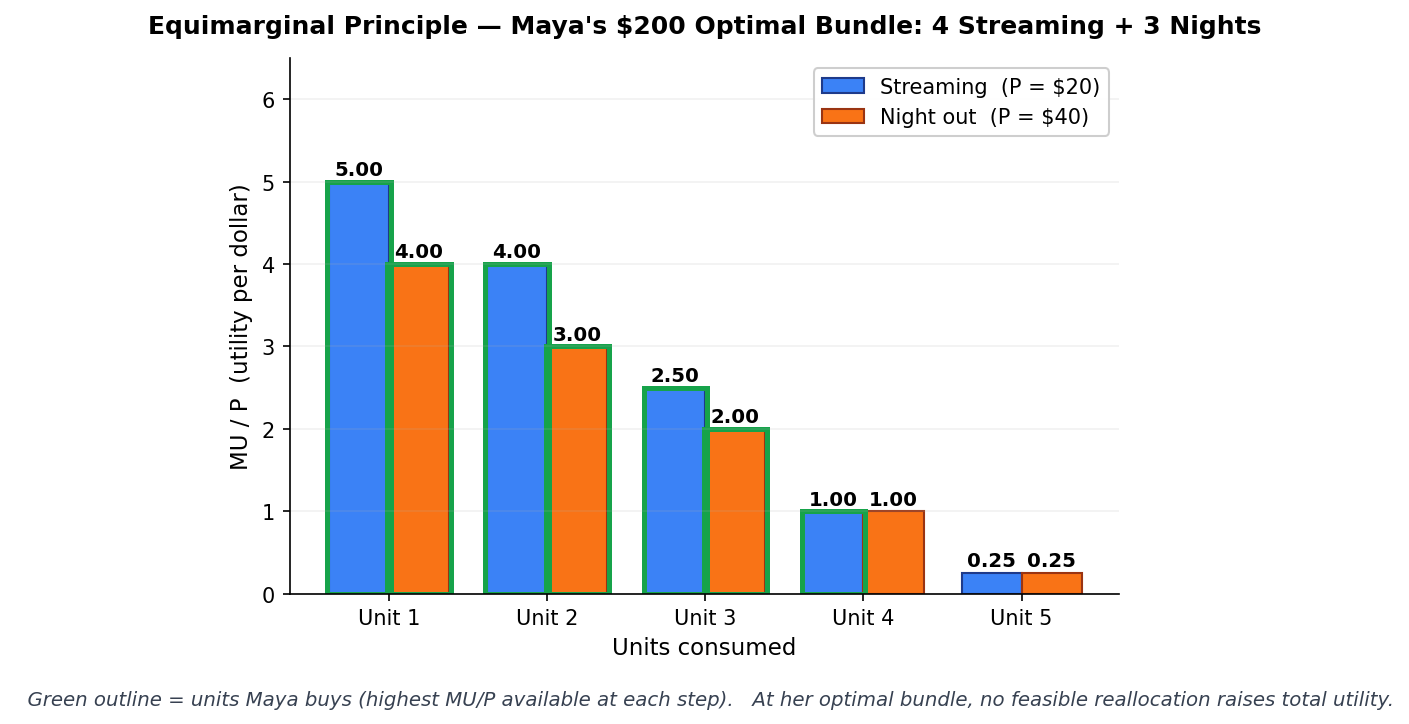
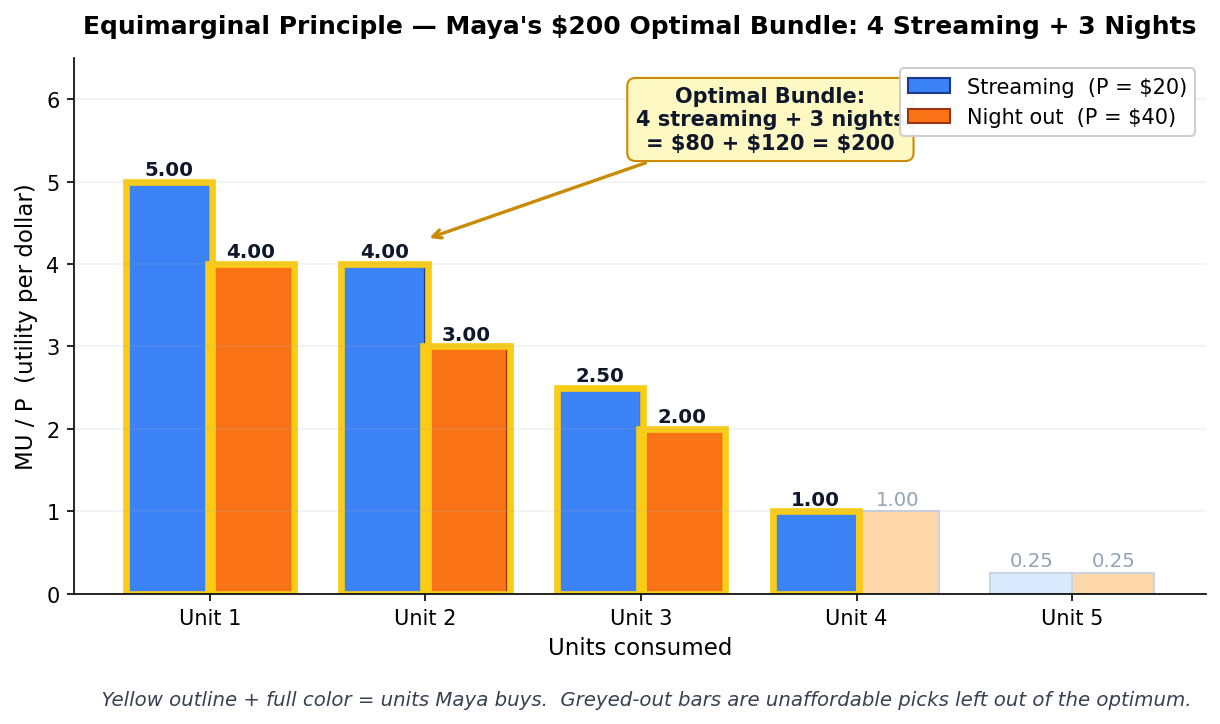
ch08: BNPL big figure + slide-59 fragments + Maya-pic only optimum
Three fixes:

1. Slide 53 (BNPL) — restructure to stack figure on top (full-width,
   max-width 1120px) with the 3 stat cards in a row below. The 3-panel
   chart was previously cramped into a 1.55fr column and rendered too
   small to read.

2. Slide 59 (buying-decision-rounds) — round-by-round reveal: each of
   the 7 data rows is a fragment (indices 1-7), plus the RESULT
   callout (index 8). Header row stays static.

3. Slide 65 (maya-equimarginal-picture) — only highlight the optimal
   bundle. Picked bars now full color + yellow outline; non-picked
   bars (4th & 5th night, 5th streaming) greyed out with lighter
   fill and faded labels. One callout points at the bundle as a
   whole instead of 7 individual green outlines on bars + 3 on the
   wrong-direction nights side.

diff --git a/econ1116/ch08-consumer-choice/index.html b/econ1116/ch08-consumer-choice/index.html
@@ -1973,33 +1973,26 @@ The punchline — "variety in the middle" — previews two later concepts: (a) c
 <!-- ============ BNPL — moved here from before time-price, now after poll-1 vertical stack ============ -->
 <section id="bnpl">
  <h2><i class="fa-solid fa-credit-card" style="color: var(--secondary-color);"></i> BNPL &mdash; Borrowing from Tomorrow&rsquo;s Budget</h2>
- <div style="display: grid; grid-template-columns: 1.55fr 1fr; gap: 18px; align-items: center; margin-top: 6px;">
-  <!-- LEFT: 3-panel figure -->
-  <div style="text-align: center;">
-   <img src="figures/figure_bnpl_budget.png" alt="Three-panel budget line — today shifts outward when borrowing, tomorrow shifts inward when repaying, and on average the budget is smaller because of the 39–51 percent Gen Z late-payment rate" style="width: 100%; max-width: 760px; height: auto;">
-  </div>
-  <!-- RIGHT: stat cards -->
-  <div style="display: flex; flex-direction: column; gap: 10px;">
-   <div style="background: #f8f6f3; border-radius: 8px; padding: 10px 14px; border-left: 4px solid var(--secondary-color);">
-    <p style="font-size: 11pt; font-weight: 700; color: var(--secondary-color); text-transform: uppercase; letter-spacing: 0.05em; margin: 0 0 3px;">Klarna / Affirm / Afterpay</p>
-    <p style="font-size: 12.5pt; line-height: 1.55; margin: 0;">Split into <strong>4 interest-free installments</strong>. 2025 U.S. volume <strong>~$70B</strong>; <strong>91.5M</strong> users.</p>
-   </div>
-   <div style="background: #ecfdf5; border-radius: 8px; padding: 10px 14px; border-left: 4px solid var(--success-color);">
-    <p style="font-size: 11pt; font-weight: 700; color: var(--success-color); text-transform: uppercase; letter-spacing: 0.05em; margin: 0 0 3px;">Today</p>
-    <p style="font-size: 12.5pt; line-height: 1.55; margin: 0;">Budget line <strong>shifts OUT</strong> &mdash; consume now, pay later.</p>
-   </div>
-   <div style="background: #fef2f2; border-radius: 8px; padding: 10px 14px; border-left: 4px solid var(--danger-color);">
-    <p style="font-size: 11pt; font-weight: 700; color: var(--danger-color); text-transform: uppercase; letter-spacing: 0.05em; margin: 0 0 3px;">Tomorrow</p>
-    <p style="font-size: 12.5pt; line-height: 1.55; margin: 0;">Budget line <strong>shifts IN</strong> &mdash; the installment comes due.</p>
-   </div>
-   <div style="background: #f5e9f7; border-radius: 8px; padding: 10px 14px; border-left: 4px solid #7c3aed;">
-    <p style="font-size: 11pt; font-weight: 700; color: #7c3aed; text-transform: uppercase; letter-spacing: 0.05em; margin: 0 0 3px;">Average &mdash; what the late fees do</p>
-    <p style="font-size: 12.5pt; line-height: 1.55; margin: 0;">Gen Z late-payment rate <strong>39&ndash;51%</strong>. Avg BNPL spend <strong>$244/mo</strong> (+21% YoY). Total budget ends up <strong>smaller</strong> than baseline.</p>
-   </div>
-  </div>
+
+ <!-- TOP: 3-panel figure (full width, big so it&rsquo;s legible) -->
+ <div style="text-align: center; margin-top: 4px;">
+  <img src="figures/figure_bnpl_budget.png" alt="Three-panel budget line — today shifts outward when borrowing, tomorrow shifts inward when repaying, and on average the budget is smaller because of the 39–51 percent Gen Z late-payment rate" style="width: 100%; max-width: 1120px; height: auto;">
  </div>
- <div style="background: #fff3e0; border-radius: 8px; padding: 10px 22px; margin-top: 10px; border-left: 4px solid var(--accent-color);">
-  <p style="font-size: 13pt; margin: 0;"><strong>The rational planner vs. impulsive doer.</strong> BNPL is engineered for the doer. We return to this conflict in &sect;5 (behavioral) and Ch 18.</p>
+
+ <!-- BOTTOM: 3 stat cards in a row, mirroring the 3 panels -->
+ <div style="display: grid; grid-template-columns: 1fr 1fr 1fr; gap: 10px; margin-top: 8px;">
+  <div style="background: #ecfdf5; border-radius: 8px; padding: 8px 12px; border-left: 4px solid var(--success-color);">
+   <p style="font-size: 10.5pt; font-weight: 700; color: var(--success-color); text-transform: uppercase; letter-spacing: 0.05em; margin: 0 0 2px;">Today</p>
+   <p style="font-size: 12pt; line-height: 1.4; margin: 0;">Budget line <strong>shifts OUT</strong> &mdash; consume now, pay later.</p>
+  </div>
+  <div style="background: #fef2f2; border-radius: 8px; padding: 8px 12px; border-left: 4px solid var(--danger-color);">
+   <p style="font-size: 10.5pt; font-weight: 700; color: var(--danger-color); text-transform: uppercase; letter-spacing: 0.05em; margin: 0 0 2px;">Tomorrow</p>
+   <p style="font-size: 12pt; line-height: 1.4; margin: 0;">Budget line <strong>shifts IN</strong> &mdash; the installment comes due.</p>
+  </div>
+  <div style="background: #f5e9f7; border-radius: 8px; padding: 8px 12px; border-left: 4px solid #7c3aed;">
+   <p style="font-size: 10.5pt; font-weight: 700; color: #7c3aed; text-transform: uppercase; letter-spacing: 0.05em; margin: 0 0 2px;">Average + late fees</p>
+   <p style="font-size: 12pt; line-height: 1.4; margin: 0;">Gen Z late-payment rate <strong>39&ndash;51%</strong> &rArr; total budget <strong>smaller</strong> than baseline.</p>
+  </div>
  </div>
  <aside class="notes">
   3-panel visual:
@@ -2169,17 +2162,17 @@ The punchline — "variety in the middle" — previews two later concepts: (a) c
         </tr>
       </thead>
       <tbody>
-        <tr style="border-bottom: 1px solid var(--line-color);"><td style="text-align: center; padding: 7px;">1</td><td style="text-align: center; padding: 7px;">$16</td><td style="text-align: center; padding: 7px;">80/4 = 20</td><td style="text-align: center; padding: 7px; font-weight: 700; color: #15803d;">21/1 = 21</td><td style="text-align: center; padding: 7px; font-weight: 700;">Avo <i class="fa-solid fa-leaf" style="color:#15803d;"></i></td><td style="text-align: center; padding: 7px;">$1</td><td style="text-align: center; padding: 7px;">(0, 1)</td></tr>
-        <tr style="background: #fafafa; border-bottom: 1px solid var(--line-color);"><td style="text-align: center; padding: 7px;">2</td><td style="text-align: center; padding: 7px;">$15</td><td style="text-align: center; padding: 7px; font-weight: 700; color: #b91c1c;">80/4 = 20</td><td style="text-align: center; padding: 7px; font-weight: 700; color: #b91c1c;">20/1 = 20</td><td style="text-align: center; padding: 7px; font-weight: 700;">Beef <i class="fa-solid fa-drumstick-bite" style="color:#b91c1c;"></i> (tie)</td><td style="text-align: center; padding: 7px;">$4</td><td style="text-align: center; padding: 7px;">(1, 1)</td></tr>
-        <tr style="border-bottom: 1px solid var(--line-color);"><td style="text-align: center; padding: 7px;">3</td><td style="text-align: center; padding: 7px;">$11</td><td style="text-align: center; padding: 7px;">76/4 = 19</td><td style="text-align: center; padding: 7px; font-weight: 700; color: #15803d;">20/1 = 20</td><td style="text-align: center; padding: 7px; font-weight: 700;">Avo <i class="fa-solid fa-leaf" style="color:#15803d;"></i></td><td style="text-align: center; padding: 7px;">$1</td><td style="text-align: center; padding: 7px;">(1, 2)</td></tr>
-        <tr style="background: #fafafa; border-bottom: 1px solid var(--line-color);"><td style="text-align: center; padding: 7px;">4</td><td style="text-align: center; padding: 7px;">$10</td><td style="text-align: center; padding: 7px; font-weight: 700; color: #b91c1c;">76/4 = 19</td><td style="text-align: center; padding: 7px; font-weight: 700; color: #b91c1c;">19/1 = 19</td><td style="text-align: center; padding: 7px; font-weight: 700;">Beef <i class="fa-solid fa-drumstick-bite" style="color:#b91c1c;"></i> (tie)</td><td style="text-align: center; padding: 7px;">$4</td><td style="text-align: center; padding: 7px;">(2, 2)</td></tr>
-        <tr style="border-bottom: 1px solid var(--line-color);"><td style="text-align: center; padding: 7px;">5</td><td style="text-align: center; padding: 7px;">$6</td><td style="text-align: center; padding: 7px;">72/4 = 18</td><td style="text-align: center; padding: 7px; font-weight: 700; color: #15803d;">19/1 = 19</td><td style="text-align: center; padding: 7px; font-weight: 700;">Avo <i class="fa-solid fa-leaf" style="color:#15803d;"></i></td><td style="text-align: center; padding: 7px;">$1</td><td style="text-align: center; padding: 7px;">(2, 3)</td></tr>
-        <tr style="background: #fafafa; border-bottom: 1px solid var(--line-color);"><td style="text-align: center; padding: 7px;">6</td><td style="text-align: center; padding: 7px;">$5</td><td style="text-align: center; padding: 7px; font-weight: 700; color: #b91c1c;">72/4 = 18</td><td style="text-align: center; padding: 7px; font-weight: 700; color: #b91c1c;">18/1 = 18</td><td style="text-align: center; padding: 7px; font-weight: 700;">Beef <i class="fa-solid fa-drumstick-bite" style="color:#b91c1c;"></i> (tie)</td><td style="text-align: center; padding: 7px;">$4</td><td style="text-align: center; padding: 7px;">(3, 3)</td></tr>
-        <tr style="background: #fef9c3; border: 2px solid var(--accent-color);"><td style="text-align: center; padding: 9px; font-weight: 700;">7</td><td style="text-align: center; padding: 9px; font-weight: 700;">$1</td><td style="text-align: center; padding: 9px;">68/4 = 17 (can&rsquo;t afford)</td><td style="text-align: center; padding: 9px; font-weight: 700; color: #15803d;">18/1 = 18</td><td style="text-align: center; padding: 9px; font-weight: 700;">Avo <i class="fa-solid fa-leaf" style="color:#15803d;"></i></td><td style="text-align: center; padding: 9px;">$1</td><td style="text-align: center; padding: 9px; font-weight: 700; color: var(--accent-color);">(3, 4) &#10004;</td></tr>
+        <tr class="fragment fade-in" data-fragment-index="1" style="border-bottom: 1px solid var(--line-color);"><td style="text-align: center; padding: 7px;">1</td><td style="text-align: center; padding: 7px;">$16</td><td style="text-align: center; padding: 7px;">80/4 = 20</td><td style="text-align: center; padding: 7px; font-weight: 700; color: #15803d;">21/1 = 21</td><td style="text-align: center; padding: 7px; font-weight: 700;">Avo <i class="fa-solid fa-leaf" style="color:#15803d;"></i></td><td style="text-align: center; padding: 7px;">$1</td><td style="text-align: center; padding: 7px;">(0, 1)</td></tr>
+        <tr class="fragment fade-in" data-fragment-index="2" style="background: #fafafa; border-bottom: 1px solid var(--line-color);"><td style="text-align: center; padding: 7px;">2</td><td style="text-align: center; padding: 7px;">$15</td><td style="text-align: center; padding: 7px; font-weight: 700; color: #b91c1c;">80/4 = 20</td><td style="text-align: center; padding: 7px; font-weight: 700; color: #b91c1c;">20/1 = 20</td><td style="text-align: center; padding: 7px; font-weight: 700;">Beef <i class="fa-solid fa-drumstick-bite" style="color:#b91c1c;"></i> (tie)</td><td style="text-align: center; padding: 7px;">$4</td><td style="text-align: center; padding: 7px;">(1, 1)</td></tr>
+        <tr class="fragment fade-in" data-fragment-index="3" style="border-bottom: 1px solid var(--line-color);"><td style="text-align: center; padding: 7px;">3</td><td style="text-align: center; padding: 7px;">$11</td><td style="text-align: center; padding: 7px;">76/4 = 19</td><td style="text-align: center; padding: 7px; font-weight: 700; color: #15803d;">20/1 = 20</td><td style="text-align: center; padding: 7px; font-weight: 700;">Avo <i class="fa-solid fa-leaf" style="color:#15803d;"></i></td><td style="text-align: center; padding: 7px;">$1</td><td style="text-align: center; padding: 7px;">(1, 2)</td></tr>
+        <tr class="fragment fade-in" data-fragment-index="4" style="background: #fafafa; border-bottom: 1px solid var(--line-color);"><td style="text-align: center; padding: 7px;">4</td><td style="text-align: center; padding: 7px;">$10</td><td style="text-align: center; padding: 7px; font-weight: 700; color: #b91c1c;">76/4 = 19</td><td style="text-align: center; padding: 7px; font-weight: 700; color: #b91c1c;">19/1 = 19</td><td style="text-align: center; padding: 7px; font-weight: 700;">Beef <i class="fa-solid fa-drumstick-bite" style="color:#b91c1c;"></i> (tie)</td><td style="text-align: center; padding: 7px;">$4</td><td style="text-align: center; padding: 7px;">(2, 2)</td></tr>
+        <tr class="fragment fade-in" data-fragment-index="5" style="border-bottom: 1px solid var(--line-color);"><td style="text-align: center; padding: 7px;">5</td><td style="text-align: center; padding: 7px;">$6</td><td style="text-align: center; padding: 7px;">72/4 = 18</td><td style="text-align: center; padding: 7px; font-weight: 700; color: #15803d;">19/1 = 19</td><td style="text-align: center; padding: 7px; font-weight: 700;">Avo <i class="fa-solid fa-leaf" style="color:#15803d;"></i></td><td style="text-align: center; padding: 7px;">$1</td><td style="text-align: center; padding: 7px;">(2, 3)</td></tr>
+        <tr class="fragment fade-in" data-fragment-index="6" style="background: #fafafa; border-bottom: 1px solid var(--line-color);"><td style="text-align: center; padding: 7px;">6</td><td style="text-align: center; padding: 7px;">$5</td><td style="text-align: center; padding: 7px; font-weight: 700; color: #b91c1c;">72/4 = 18</td><td style="text-align: center; padding: 7px; font-weight: 700; color: #b91c1c;">18/1 = 18</td><td style="text-align: center; padding: 7px; font-weight: 700;">Beef <i class="fa-solid fa-drumstick-bite" style="color:#b91c1c;"></i> (tie)</td><td style="text-align: center; padding: 7px;">$4</td><td style="text-align: center; padding: 7px;">(3, 3)</td></tr>
+        <tr class="fragment fade-in" data-fragment-index="7" style="background: #fef9c3; border: 2px solid var(--accent-color);"><td style="text-align: center; padding: 9px; font-weight: 700;">7</td><td style="text-align: center; padding: 9px; font-weight: 700;">$1</td><td style="text-align: center; padding: 9px;">68/4 = 17 (can&rsquo;t afford)</td><td style="text-align: center; padding: 9px; font-weight: 700; color: #15803d;">18/1 = 18</td><td style="text-align: center; padding: 9px; font-weight: 700;">Avo <i class="fa-solid fa-leaf" style="color:#15803d;"></i></td><td style="text-align: center; padding: 9px;">$1</td><td style="text-align: center; padding: 9px; font-weight: 700; color: var(--accent-color);">(3, 4) &#10004;</td></tr>
       </tbody>
     </table>
   </div>
-  <div style="background: #f0fdf4; border-radius: 8px; padding: 10px 22px; border-left: 4px solid var(--success-color); margin-top: 10px;">
+  <div class="fragment fade-up" data-fragment-index="8" style="background: #f0fdf4; border-radius: 8px; padding: 10px 22px; border-left: 4px solid var(--success-color); margin-top: 10px;">
     <p style="font-size: 14pt; margin: 0;"><strong>RESULT:</strong> spent exactly $16 ($4&times;3 + $1&times;4). Optimum = <strong>(3 beef, 4 avocado)</strong> with TU = 228 + 78 = <strong>306</strong>. Last picks of both goods have <strong>MU/$ = 18</strong> &mdash; <em>equimarginal</em>.</p>
   </div>
   <aside class="notes">Walk through 2-3 rounds. Emphasize: at every tie, either choice is fine because their MU/$ ratios are equal. The eventual budget exhaustion lands at the same bundle regardless of which side wins ties. Round 7 is highlighted because at $1 remaining, beef ($4) is unaffordable, so even though MU/$ for the 4th beef (17) is technically lower than the 4th avocado (18), the rule is &ldquo;buy the highest MU/$ you can afford.&rdquo; This is the discrete version of the equimarginal rule.</aside>

diff --git a/econ1116/ch08-consumer-choice/presentation.html b/econ1116/ch08-consumer-choice/presentation.html
@@ -1973,33 +1973,26 @@ The punchline — "variety in the middle" — previews two later concepts: (a) c
 <!-- ============ BNPL — moved here from before time-price, now after poll-1 vertical stack ============ -->
 <section id="bnpl">
  <h2><i class="fa-solid fa-credit-card" style="color: var(--secondary-color);"></i> BNPL &mdash; Borrowing from Tomorrow&rsquo;s Budget</h2>
- <div style="display: grid; grid-template-columns: 1.55fr 1fr; gap: 18px; align-items: center; margin-top: 6px;">
-  <!-- LEFT: 3-panel figure -->
-  <div style="text-align: center;">
-   <img src="figures/figure_bnpl_budget.png" alt="Three-panel budget line — today shifts outward when borrowing, tomorrow shifts inward when repaying, and on average the budget is smaller because of the 39–51 percent Gen Z late-payment rate" style="width: 100%; max-width: 760px; height: auto;">
-  </div>
-  <!-- RIGHT: stat cards -->
-  <div style="display: flex; flex-direction: column; gap: 10px;">
-   <div style="background: #f8f6f3; border-radius: 8px; padding: 10px 14px; border-left: 4px solid var(--secondary-color);">
-    <p style="font-size: 11pt; font-weight: 700; color: var(--secondary-color); text-transform: uppercase; letter-spacing: 0.05em; margin: 0 0 3px;">Klarna / Affirm / Afterpay</p>
-    <p style="font-size: 12.5pt; line-height: 1.55; margin: 0;">Split into <strong>4 interest-free installments</strong>. 2025 U.S. volume <strong>~$70B</strong>; <strong>91.5M</strong> users.</p>
-   </div>
-   <div style="background: #ecfdf5; border-radius: 8px; padding: 10px 14px; border-left: 4px solid var(--success-color);">
-    <p style="font-size: 11pt; font-weight: 700; color: var(--success-color); text-transform: uppercase; letter-spacing: 0.05em; margin: 0 0 3px;">Today</p>
-    <p style="font-size: 12.5pt; line-height: 1.55; margin: 0;">Budget line <strong>shifts OUT</strong> &mdash; consume now, pay later.</p>
-   </div>
-   <div style="background: #fef2f2; border-radius: 8px; padding: 10px 14px; border-left: 4px solid var(--danger-color);">
-    <p style="font-size: 11pt; font-weight: 700; color: var(--danger-color); text-transform: uppercase; letter-spacing: 0.05em; margin: 0 0 3px;">Tomorrow</p>
-    <p style="font-size: 12.5pt; line-height: 1.55; margin: 0;">Budget line <strong>shifts IN</strong> &mdash; the installment comes due.</p>
-   </div>
-   <div style="background: #f5e9f7; border-radius: 8px; padding: 10px 14px; border-left: 4px solid #7c3aed;">
-    <p style="font-size: 11pt; font-weight: 700; color: #7c3aed; text-transform: uppercase; letter-spacing: 0.05em; margin: 0 0 3px;">Average &mdash; what the late fees do</p>
-    <p style="font-size: 12.5pt; line-height: 1.55; margin: 0;">Gen Z late-payment rate <strong>39&ndash;51%</strong>. Avg BNPL spend <strong>$244/mo</strong> (+21% YoY). Total budget ends up <strong>smaller</strong> than baseline.</p>
-   </div>
-  </div>
+
+ <!-- TOP: 3-panel figure (full width, big so it&rsquo;s legible) -->
+ <div style="text-align: center; margin-top: 4px;">
+  <img src="figures/figure_bnpl_budget.png" alt="Three-panel budget line — today shifts outward when borrowing, tomorrow shifts inward when repaying, and on average the budget is smaller because of the 39–51 percent Gen Z late-payment rate" style="width: 100%; max-width: 1120px; height: auto;">
  </div>
- <div style="background: #fff3e0; border-radius: 8px; padding: 10px 22px; margin-top: 10px; border-left: 4px solid var(--accent-color);">
-  <p style="font-size: 13pt; margin: 0;"><strong>The rational planner vs. impulsive doer.</strong> BNPL is engineered for the doer. We return to this conflict in &sect;5 (behavioral) and Ch 18.</p>
+
+ <!-- BOTTOM: 3 stat cards in a row, mirroring the 3 panels -->
+ <div style="display: grid; grid-template-columns: 1fr 1fr 1fr; gap: 10px; margin-top: 8px;">
+  <div style="background: #ecfdf5; border-radius: 8px; padding: 8px 12px; border-left: 4px solid var(--success-color);">
+   <p style="font-size: 10.5pt; font-weight: 700; color: var(--success-color); text-transform: uppercase; letter-spacing: 0.05em; margin: 0 0 2px;">Today</p>
+   <p style="font-size: 12pt; line-height: 1.4; margin: 0;">Budget line <strong>shifts OUT</strong> &mdash; consume now, pay later.</p>
+  </div>
+  <div style="background: #fef2f2; border-radius: 8px; padding: 8px 12px; border-left: 4px solid var(--danger-color);">
+   <p style="font-size: 10.5pt; font-weight: 700; color: var(--danger-color); text-transform: uppercase; letter-spacing: 0.05em; margin: 0 0 2px;">Tomorrow</p>
+   <p style="font-size: 12pt; line-height: 1.4; margin: 0;">Budget line <strong>shifts IN</strong> &mdash; the installment comes due.</p>
+  </div>
+  <div style="background: #f5e9f7; border-radius: 8px; padding: 8px 12px; border-left: 4px solid #7c3aed;">
+   <p style="font-size: 10.5pt; font-weight: 700; color: #7c3aed; text-transform: uppercase; letter-spacing: 0.05em; margin: 0 0 2px;">Average + late fees</p>
+   <p style="font-size: 12pt; line-height: 1.4; margin: 0;">Gen Z late-payment rate <strong>39&ndash;51%</strong> &rArr; total budget <strong>smaller</strong> than baseline.</p>
+  </div>
  </div>
  <aside class="notes">
   3-panel visual:
@@ -2169,17 +2162,17 @@ The punchline — "variety in the middle" — previews two later concepts: (a) c
         </tr>
       </thead>
       <tbody>
-        <tr style="border-bottom: 1px solid var(--line-color);"><td style="text-align: center; padding: 7px;">1</td><td style="text-align: center; padding: 7px;">$16</td><td style="text-align: center; padding: 7px;">80/4 = 20</td><td style="text-align: center; padding: 7px; font-weight: 700; color: #15803d;">21/1 = 21</td><td style="text-align: center; padding: 7px; font-weight: 700;">Avo <i class="fa-solid fa-leaf" style="color:#15803d;"></i></td><td style="text-align: center; padding: 7px;">$1</td><td style="text-align: center; padding: 7px;">(0, 1)</td></tr>
-        <tr style="background: #fafafa; border-bottom: 1px solid var(--line-color);"><td style="text-align: center; padding: 7px;">2</td><td style="text-align: center; padding: 7px;">$15</td><td style="text-align: center; padding: 7px; font-weight: 700; color: #b91c1c;">80/4 = 20</td><td style="text-align: center; padding: 7px; font-weight: 700; color: #b91c1c;">20/1 = 20</td><td style="text-align: center; padding: 7px; font-weight: 700;">Beef <i class="fa-solid fa-drumstick-bite" style="color:#b91c1c;"></i> (tie)</td><td style="text-align: center; padding: 7px;">$4</td><td style="text-align: center; padding: 7px;">(1, 1)</td></tr>
-        <tr style="border-bottom: 1px solid var(--line-color);"><td style="text-align: center; padding: 7px;">3</td><td style="text-align: center; padding: 7px;">$11</td><td style="text-align: center; padding: 7px;">76/4 = 19</td><td style="text-align: center; padding: 7px; font-weight: 700; color: #15803d;">20/1 = 20</td><td style="text-align: center; padding: 7px; font-weight: 700;">Avo <i class="fa-solid fa-leaf" style="color:#15803d;"></i></td><td style="text-align: center; padding: 7px;">$1</td><td style="text-align: center; padding: 7px;">(1, 2)</td></tr>
-        <tr style="background: #fafafa; border-bottom: 1px solid var(--line-color);"><td style="text-align: center; padding: 7px;">4</td><td style="text-align: center; padding: 7px;">$10</td><td style="text-align: center; padding: 7px; font-weight: 700; color: #b91c1c;">76/4 = 19</td><td style="text-align: center; padding: 7px; font-weight: 700; color: #b91c1c;">19/1 = 19</td><td style="text-align: center; padding: 7px; font-weight: 700;">Beef <i class="fa-solid fa-drumstick-bite" style="color:#b91c1c;"></i> (tie)</td><td style="text-align: center; padding: 7px;">$4</td><td style="text-align: center; padding: 7px;">(2, 2)</td></tr>
-        <tr style="border-bottom: 1px solid var(--line-color);"><td style="text-align: center; padding: 7px;">5</td><td style="text-align: center; padding: 7px;">$6</td><td style="text-align: center; padding: 7px;">72/4 = 18</td><td style="text-align: center; padding: 7px; font-weight: 700; color: #15803d;">19/1 = 19</td><td style="text-align: center; padding: 7px; font-weight: 700;">Avo <i class="fa-solid fa-leaf" style="color:#15803d;"></i></td><td style="text-align: center; padding: 7px;">$1</td><td style="text-align: center; padding: 7px;">(2, 3)</td></tr>
-        <tr style="background: #fafafa; border-bottom: 1px solid var(--line-color);"><td style="text-align: center; padding: 7px;">6</td><td style="text-align: center; padding: 7px;">$5</td><td style="text-align: center; padding: 7px; font-weight: 700; color: #b91c1c;">72/4 = 18</td><td style="text-align: center; padding: 7px; font-weight: 700; color: #b91c1c;">18/1 = 18</td><td style="text-align: center; padding: 7px; font-weight: 700;">Beef <i class="fa-solid fa-drumstick-bite" style="color:#b91c1c;"></i> (tie)</td><td style="text-align: center; padding: 7px;">$4</td><td style="text-align: center; padding: 7px;">(3, 3)</td></tr>
-        <tr style="background: #fef9c3; border: 2px solid var(--accent-color);"><td style="text-align: center; padding: 9px; font-weight: 700;">7</td><td style="text-align: center; padding: 9px; font-weight: 700;">$1</td><td style="text-align: center; padding: 9px;">68/4 = 17 (can&rsquo;t afford)</td><td style="text-align: center; padding: 9px; font-weight: 700; color: #15803d;">18/1 = 18</td><td style="text-align: center; padding: 9px; font-weight: 700;">Avo <i class="fa-solid fa-leaf" style="color:#15803d;"></i></td><td style="text-align: center; padding: 9px;">$1</td><td style="text-align: center; padding: 9px; font-weight: 700; color: var(--accent-color);">(3, 4) &#10004;</td></tr>
+        <tr class="fragment fade-in" data-fragment-index="1" style="border-bottom: 1px solid var(--line-color);"><td style="text-align: center; padding: 7px;">1</td><td style="text-align: center; padding: 7px;">$16</td><td style="text-align: center; padding: 7px;">80/4 = 20</td><td style="text-align: center; padding: 7px; font-weight: 700; color: #15803d;">21/1 = 21</td><td style="text-align: center; padding: 7px; font-weight: 700;">Avo <i class="fa-solid fa-leaf" style="color:#15803d;"></i></td><td style="text-align: center; padding: 7px;">$1</td><td style="text-align: center; padding: 7px;">(0, 1)</td></tr>
+        <tr class="fragment fade-in" data-fragment-index="2" style="background: #fafafa; border-bottom: 1px solid var(--line-color);"><td style="text-align: center; padding: 7px;">2</td><td style="text-align: center; padding: 7px;">$15</td><td style="text-align: center; padding: 7px; font-weight: 700; color: #b91c1c;">80/4 = 20</td><td style="text-align: center; padding: 7px; font-weight: 700; color: #b91c1c;">20/1 = 20</td><td style="text-align: center; padding: 7px; font-weight: 700;">Beef <i class="fa-solid fa-drumstick-bite" style="color:#b91c1c;"></i> (tie)</td><td style="text-align: center; padding: 7px;">$4</td><td style="text-align: center; padding: 7px;">(1, 1)</td></tr>
+        <tr class="fragment fade-in" data-fragment-index="3" style="border-bottom: 1px solid var(--line-color);"><td style="text-align: center; padding: 7px;">3</td><td style="text-align: center; padding: 7px;">$11</td><td style="text-align: center; padding: 7px;">76/4 = 19</td><td style="text-align: center; padding: 7px; font-weight: 700; color: #15803d;">20/1 = 20</td><td style="text-align: center; padding: 7px; font-weight: 700;">Avo <i class="fa-solid fa-leaf" style="color:#15803d;"></i></td><td style="text-align: center; padding: 7px;">$1</td><td style="text-align: center; padding: 7px;">(1, 2)</td></tr>
+        <tr class="fragment fade-in" data-fragment-index="4" style="background: #fafafa; border-bottom: 1px solid var(--line-color);"><td style="text-align: center; padding: 7px;">4</td><td style="text-align: center; padding: 7px;">$10</td><td style="text-align: center; padding: 7px; font-weight: 700; color: #b91c1c;">76/4 = 19</td><td style="text-align: center; padding: 7px; font-weight: 700; color: #b91c1c;">19/1 = 19</td><td style="text-align: center; padding: 7px; font-weight: 700;">Beef <i class="fa-solid fa-drumstick-bite" style="color:#b91c1c;"></i> (tie)</td><td style="text-align: center; padding: 7px;">$4</td><td style="text-align: center; padding: 7px;">(2, 2)</td></tr>
+        <tr class="fragment fade-in" data-fragment-index="5" style="border-bottom: 1px solid var(--line-color);"><td style="text-align: center; padding: 7px;">5</td><td style="text-align: center; padding: 7px;">$6</td><td style="text-align: center; padding: 7px;">72/4 = 18</td><td style="text-align: center; padding: 7px; font-weight: 700; color: #15803d;">19/1 = 19</td><td style="text-align: center; padding: 7px; font-weight: 700;">Avo <i class="fa-solid fa-leaf" style="color:#15803d;"></i></td><td style="text-align: center; padding: 7px;">$1</td><td style="text-align: center; padding: 7px;">(2, 3)</td></tr>
+        <tr class="fragment fade-in" data-fragment-index="6" style="background: #fafafa; border-bottom: 1px solid var(--line-color);"><td style="text-align: center; padding: 7px;">6</td><td style="text-align: center; padding: 7px;">$5</td><td style="text-align: center; padding: 7px; font-weight: 700; color: #b91c1c;">72/4 = 18</td><td style="text-align: center; padding: 7px; font-weight: 700; color: #b91c1c;">18/1 = 18</td><td style="text-align: center; padding: 7px; font-weight: 700;">Beef <i class="fa-solid fa-drumstick-bite" style="color:#b91c1c;"></i> (tie)</td><td style="text-align: center; padding: 7px;">$4</td><td style="text-align: center; padding: 7px;">(3, 3)</td></tr>
+        <tr class="fragment fade-in" data-fragment-index="7" style="background: #fef9c3; border: 2px solid var(--accent-color);"><td style="text-align: center; padding: 9px; font-weight: 700;">7</td><td style="text-align: center; padding: 9px; font-weight: 700;">$1</td><td style="text-align: center; padding: 9px;">68/4 = 17 (can&rsquo;t afford)</td><td style="text-align: center; padding: 9px; font-weight: 700; color: #15803d;">18/1 = 18</td><td style="text-align: center; padding: 9px; font-weight: 700;">Avo <i class="fa-solid fa-leaf" style="color:#15803d;"></i></td><td style="text-align: center; padding: 9px;">$1</td><td style="text-align: center; padding: 9px; font-weight: 700; color: var(--accent-color);">(3, 4) &#10004;</td></tr>
       </tbody>
     </table>
   </div>
-  <div style="background: #f0fdf4; border-radius: 8px; padding: 10px 22px; border-left: 4px solid var(--success-color); margin-top: 10px;">
+  <div class="fragment fade-up" data-fragment-index="8" style="background: #f0fdf4; border-radius: 8px; padding: 10px 22px; border-left: 4px solid var(--success-color); margin-top: 10px;">
     <p style="font-size: 14pt; margin: 0;"><strong>RESULT:</strong> spent exactly $16 ($4&times;3 + $1&times;4). Optimum = <strong>(3 beef, 4 avocado)</strong> with TU = 228 + 78 = <strong>306</strong>. Last picks of both goods have <strong>MU/$ = 18</strong> &mdash; <em>equimarginal</em>.</p>
   </div>
   <aside class="notes">Walk through 2-3 rounds. Emphasize: at every tie, either choice is fine because their MU/$ ratios are equal. The eventual budget exhaustion lands at the same bundle regardless of which side wins ties. Round 7 is highlighted because at $1 remaining, beef ($4) is unaffordable, so even though MU/$ for the 4th beef (17) is technically lower than the 4th avocado (18), the rule is &ldquo;buy the highest MU/$ you can afford.&rdquo; This is the discrete version of the equimarginal rule.</aside>
